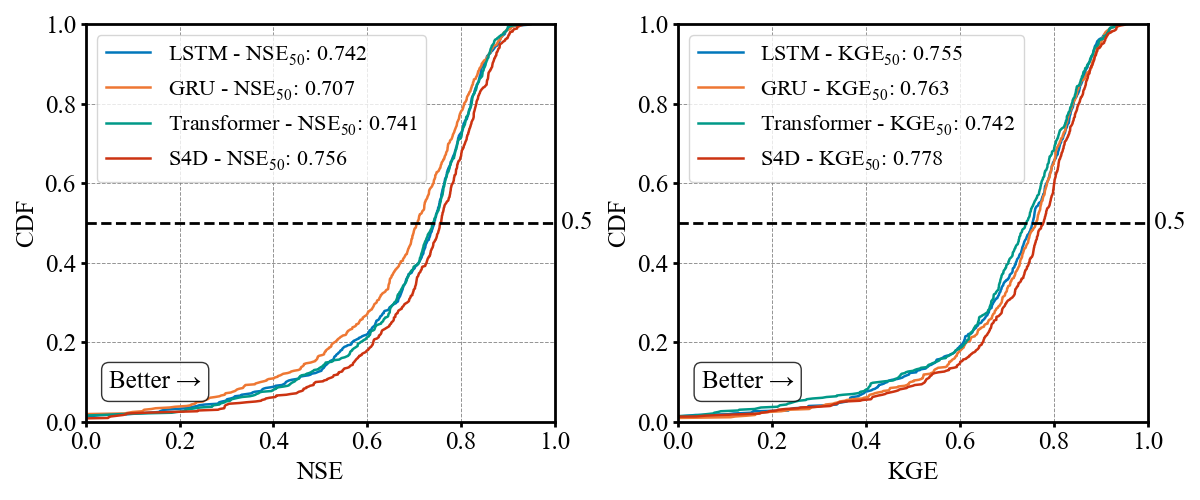
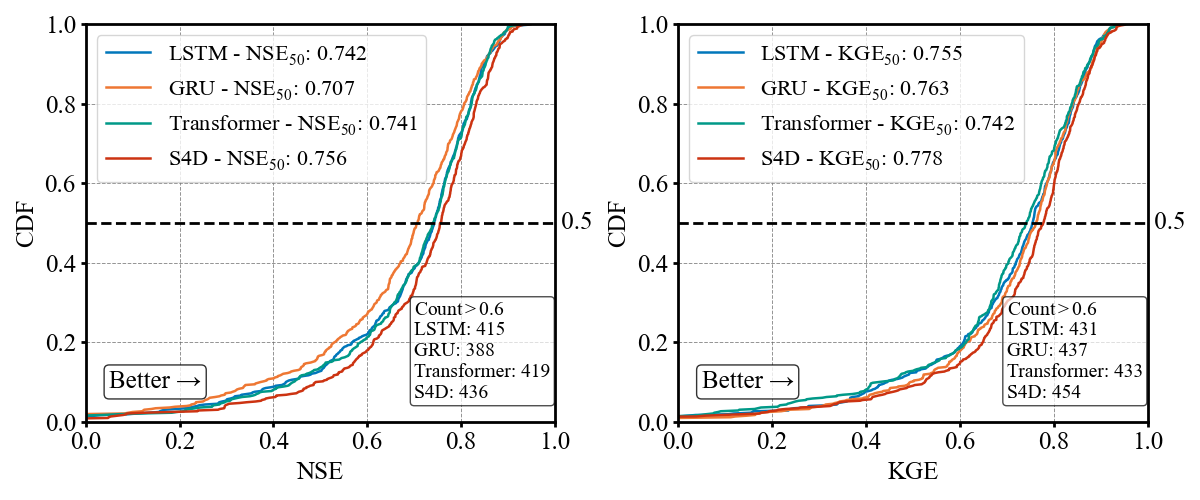
submit plot

diff --git a/project/better_estimate/visualize/hist_diff_plot.py b/project/better_estimate/visualize/hist_diff_plot.py
@@ -1,0 +1,143 @@
+import json
+from datetime import datetime, timedelta
+
+import geopandas as gpd
+import numpy as np
+import pandas as pd
+import os
+import sys
+from dotenv import load_dotenv
+
+from dmg.core.data.loaders import HydroLoader
+from dmg.core.post.plot_diff_hist import plot_distribution_curve
+
+load_dotenv()
+sys.path.append(os.getenv("PROJ_PATH"))
+
+import matplotlib.pyplot as plt
+import matplotlib.colors as mcolors
+from matplotlib import cm
+import cartopy.crs as ccrs
+
+font_family = 'Times New Roman'
+plt.rcParams.update({
+    'font.family': font_family,
+    'font.serif': [font_family],
+    'mathtext.fontset': 'custom',
+    'mathtext.rm': font_family,
+    'mathtext.it': font_family,
+    'mathtext.bf': font_family,
+    'axes.unicode_minus': False,
+})
+
+from dmg.core.data import txt_to_array, load_json
+from dmg.core.post import geoplot_single_metric
+from project.better_estimate import load_config
+
+# ------------------------------------------#
+# Choose the metric to plot. (See available metrics printed above, or in the metrics_agg.json file).
+lstm_config = load_config(r'conf/config_dhbv_lstm.yaml')
+lstm_config['mode'] = 'test'
+hopev1_config = load_config(r'conf/config_dhbv_hopev1.yaml')
+hopev1_config['mode'] = 'test'
+
+loader = HydroLoader(lstm_config, test_split=True, overwrite=False)
+loader.load_dataset()
+
+
+# Set the paths to the gage id lists and shapefiles...
+
+def fetch_data(config, metric):
+    GAGE_ID_PATH = os.getenv("GAGE_INFO")  # ./gage_id.npy
+    GAGE_ID_531_PATH = os.getenv("SUBSET_PATH")  # ./531sub_id.txt
+    SHAPEFILE_PATH = r'E:\PaperCode\dpl-project\generic_deltamodel\data\camels_data\camels_loc\camels_671_loc.shp'
+    # ------------------------------------------#
+
+    # 1. Load gage ids + basin shapefile with geocoordinates (lat, long) for every gage.
+    gage_ids = np.load(GAGE_ID_PATH, allow_pickle=True)
+    gage_ids_531 = txt_to_array(GAGE_ID_531_PATH)
+    coords = gpd.read_file(SHAPEFILE_PATH)
+
+    # 2. Format geocoords for 531- and 671-basin CAMELS sets.
+    coords_531 = coords[coords['gage_id'].isin(list(gage_ids_531))].copy()
+
+    coords['gage_id'] = pd.Categorical(coords['gage_id'], categories=list(gage_ids), ordered=True)
+    coords_531['gage_id'] = pd.Categorical(coords_531['gage_id'], categories=list(gage_ids_531), ordered=True)
+
+    coords = coords.sort_values('gage_id')  # Sort to match order of metrics.
+    basin_coords_531 = coords_531.sort_values('gage_id')
+
+    # 3. Load the evaluation metrics.
+    metrics_path = os.path.join(config['out_path'], 'metrics.json')
+    metrics = load_json(metrics_path)
+
+    # 4. Add the evaluation metrics to the basin shapefile.
+    if config['observations']['name'] == 'camels_671':
+        coords[metric] = metrics[metric]
+        full_data = coords
+    elif config['observations']['name'] == 'camels_531':
+        coords_531[metric] = metrics[metric]
+        full_data = coords_531
+    else:
+        raise ValueError(f"Observation data supported: 'camels_671' or 'camels_531'. Got: {config['observations']}")
+    return full_data
+
+
+def load_diff_data(metric):
+    lstm_data = fetch_data(config=lstm_config, metric=metric)
+    hopev1_data = fetch_data(config=hopev1_config, metric=metric)
+    diff_data = hopev1_data[metric].values - lstm_data[metric].values
+    diff_df = hopev1_data.copy()
+    diff_df[metric] = diff_data
+    return diff_df
+
+
+nse_diff = load_diff_data('nse')
+nse_diff_values = nse_diff['nse'].values
+nse_diff_values = np.where(nse_diff_values > 0.2, 0.2, nse_diff_values)
+nse_diff_values = np.where(nse_diff_values < -0.2, -0.2, nse_diff_values)
+kge_diff = load_diff_data('kge')
+kge_diff_values = kge_diff['kge'].values
+kge_diff_values = np.where(kge_diff_values > 0.2, 0.2, kge_diff_values)
+kge_diff_values = np.where(kge_diff_values < -0.2, -0.2, kge_diff_values)
+
+fhv_abs_diff = load_diff_data('fhv_abs')
+fhv_abs_diff_values = fhv_abs_diff['fhv_abs'].values
+fhv_abs_diff_values = np.where(fhv_abs_diff_values > 20, 20, fhv_abs_diff_values)
+fhv_abs_diff_values = np.where(fhv_abs_diff_values < -20, 20, fhv_abs_diff_values)
+
+kge_diff_values = np.where(kge_diff_values > 0.2, 0.2, kge_diff_values)
+kge_diff_values = np.where(kge_diff_values < -0.2, -0.2, kge_diff_values)
+
+fig, (ax1, ax2, ax3) = plt.subplots(1, 3, figsize=(20, 6))
+
+plot_distribution_curve(
+    ax=ax1,
+    data=nse_diff_values,
+    data_name='NSE Difference',
+    axislabel_fontsize=18,
+    legend_fontsize=18,
+    text_fontsize=18,
+    bins=20
+)
+plot_distribution_curve(
+    ax=ax2,
+    data=kge_diff_values,
+    data_name='KGE Difference',
+    axislabel_fontsize=18,
+    legend_fontsize=18,
+    text_fontsize=18,
+    bins=20
+)
+plot_distribution_curve(
+    ax=ax3,
+    data=fhv_abs_diff_values,
+    data_name='|FHV| Difference',
+    axislabel_fontsize=18,
+    legend_fontsize=18,
+    text_fontsize=18,
+    line1=-5,
+    line2=5,
+    bins=20
+)
+fig.savefig(os.path.join(os.getenv("PROJ_PATH"), "project/better_estimate/visualize/figures/diff_hist_plot.png"), dpi=300)

diff --git a/dmg/core/post/plot_cdf.py b/dmg/core/post/plot_cdf.py
@@ -1,7 +1,7 @@
 import matplotlib.pyplot as plt
-# import scienceplots
 import numpy as np
 from itertools import cycle
+
 
 def plot_cdf(
         metrics: list[dict],
@@ -15,13 +15,16 @@ def plot_cdf(
         ybounds: tuple = (0, 1.02),
         show_arrow: bool = False,
         show_median_label: bool = True,
+        # --- NEW PARAMETERS ---
+        show_count_label: bool = False,
+        count_threshold: float = 0.6,
+        # --- END NEW PARAMETERS ---
         fontsize: int = 14,
         ticksize: int = 12,
         legend_fontsize: int = 12,
         linewidth: float = 1.8,
         axis_width: float = 1.2,
 ):
-
     if not metrics or not metric_names:
         raise ValueError("错误：未提供指标数据或指标名称。")
 
@@ -34,6 +37,9 @@ def plot_cdf(
         colors = ['#0077BB', '#EE7733', '#009988', '#CC3311', '#33BBEE', '#EE3377', '#BBBBBB']
     color_cycle = cycle(colors)
 
+    # --- NEW: List to store count strings ---
+    count_info_lines = []
+
     for metric_name in metric_names:
         for i, model_data in enumerate(metrics):
             if metric_name in model_data and isinstance(model_data[metric_name], (list, np.ndarray)):
@@ -42,6 +48,11 @@ def plot_cdf(
                 if values.size == 0:
                     print(f"警告：模型 {model_labels[i]} 的指标 '{metric_name}' 无有效数据。")
                     continue
+
+                # --- NEW: Calculate count and store it ---
+                count = np.sum(values > count_threshold)
+                count_info_lines.append(f"{model_labels[i]}: {count}")
+                # --- END NEW ---
 
                 sorted_values = np.sort(values)
                 cdf = np.arange(1, len(sorted_values) + 1) / len(sorted_values)
@@ -69,13 +80,24 @@ def plot_cdf(
         ax.legend(loc="best", fontsize=legend_fontsize)
 
     ax.grid(True, which='major', linestyle='--', linewidth=0.7, color='#666666', alpha=0.7)
-    ax.tick_params(axis='both', which='major', labelsize=ticksize, width=axis_width,)
+    ax.tick_params(axis='both', which='major', labelsize=ticksize, width=axis_width, )
     for spine in ax.spines.values():
         spine.set_linewidth(axis_width)
         spine.set_color('black')
 
+    # --- NEW: Code to add the annotation box ---
+    if show_count_label:
+        annotation_title = f"Count > {count_threshold}"
+        annotation_text = f"$\\bf{{{annotation_title}}}$\n" + "\n".join(count_info_lines)
+        ax.text(0.7, 0.05, annotation_text,
+                transform=ax.transAxes,  # Use axis fraction coordinates (0,0 is bottom-left)
+                fontsize=legend_fontsize - 2,
+                verticalalignment='bottom',
+                ha='left',
+                bbox=dict(boxstyle="round,pad=0.2", fc="white", ec="black", lw=1, alpha=0.7))
+    # --- END NEW ---
+
     if show_arrow:
         ax.annotate("Better →", xy=(0.05, 0.1), xycoords='axes fraction',
                     fontsize=fontsize, ha='left', va='center',
-                    bbox=dict(boxstyle="round,pad=0.3", fc="white", ec="black", lw=1, alpha=0.8))
-
+                    bbox=dict(boxstyle="round,pad=0.2", fc="white", ec="black", lw=1, alpha=0.8))

diff --git a/dmg/core/post/plot_diff_hist.py b/dmg/core/post/plot_diff_hist.py
@@ -1,0 +1,56 @@
+import numpy as np
+import matplotlib.pyplot as plt
+import pandas as pd
+from scipy.stats import gaussian_kde
+
+def plot_distribution_curve(ax, data, data_name='Value', title_fontsize=16, axislabel_fontsize=12, legend_fontsize=10, text_fontsize=12, bins=50, line1=-0.05, line2=0.05):
+    """
+    Generates and plots a histogram and KDE curve on a given matplotlib Axes object.
+
+    Args:
+        ax (matplotlib.axes.Axes): The Axes object to plot on.
+        data (np.ndarray): The input numpy array.
+        data_name (str): The name of the data for use in labels and titles.
+        title_fontsize (int): The font size for the plot title.
+        axislabel_fontsize (int): The font size for the axis labels.
+        legend_fontsize (int): The font size for the legend.
+        text_fontsize (int): The font size for the text annotations.
+        bins (int): The number of bins for the histogram.
+        line1 (float): The position of the first vertical line.
+        line2 (float): The position of the second vertical line.
+    """
+    # Create the histogram plot on the provided axes
+    ax.hist(data, bins=bins, density=True, color='#a9a9a9', alpha=0.7, label=f'Histogram')
+
+    # Create a KDE (Kernel Density Estimate) for a smooth curve
+    kde = gaussian_kde(data)
+    x_range = np.linspace(data.min(), data.max(), 500)
+    ax.plot(x_range, kde(x_range), color='#2F4F4F', linewidth=2, label=f'KDE Curve')
+
+    # Add vertical dashed lines
+    ax.axvline(x=line1, color='firebrick', linestyle='--', linewidth=1.5, label=f'x = {line1}')
+    ax.axvline(x=line2, color='darkgreen', linestyle='--', linewidth=1.5, label=f'x = {line2}')
+
+    # Calculate the counts for each region
+    count_less = np.sum(data < line1)
+    count_greater = np.sum(data > line2)
+    count_between = len(data) - count_less - count_greater
+
+    # Add text annotations for the counts
+    y_max = ax.get_ylim()[1]
+    bbox_props = dict(boxstyle="round,pad=0.1", facecolor="white", edgecolor='black', alpha=0.9)
+
+    # Apply this style to your text calls
+    ax.text(line1 * 2.5, y_max * 0.2, f'Count < {line1}: {count_less}',
+            fontsize=text_fontsize, color='firebrick', ha='center', bbox=bbox_props)
+
+    ax.text(line2 * 2.5, y_max * 0.2, f'Count > {line2}: {count_greater}',
+            fontsize=text_fontsize, color='darkgreen', ha='center', bbox=bbox_props)
+
+    ax.text((line1 + line2) / 2, y_max * 0.4, f'Count between: {count_between}',
+            fontsize=text_fontsize, ha='center', bbox=bbox_props)
+    # Add labels and title
+    ax.set_xlabel(data_name, fontsize=axislabel_fontsize)
+    ax.set_ylabel('Density', fontsize=axislabel_fontsize)
+    ax.legend(fontsize=legend_fontsize)
+    ax.grid(True, which='both', linestyle='--', linewidth=0.5)

diff --git a/project/better_estimate/visualize/cdf_plot.py b/project/better_estimate/visualize/cdf_plot.py
@@ -39,6 +39,8 @@ plot_config = {"xbounds": (0.0, 1),
                "legend_fontsize": 16,
                "ticksize": 18,
                "linewidth": 1.8,
+               "show_count_label":True,
+               "count_threshold":0.6,
                "axis_width": 2.0}
 # 2. Plot the CDF for NSE.
 fig, axes = plt.subplots(nrows=1, ncols=2, figsize=(12, 5),
